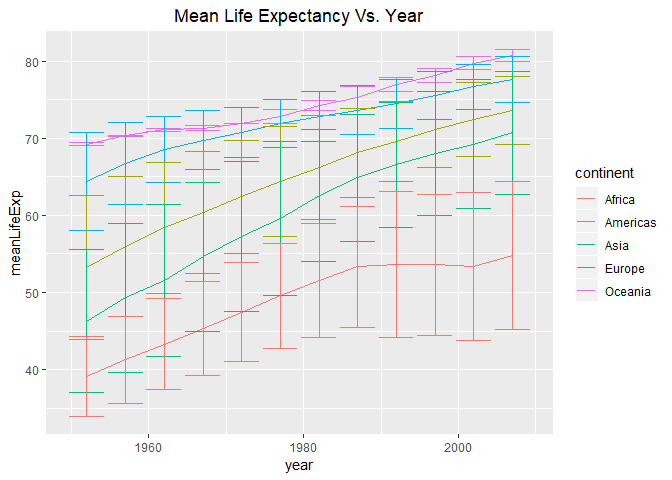
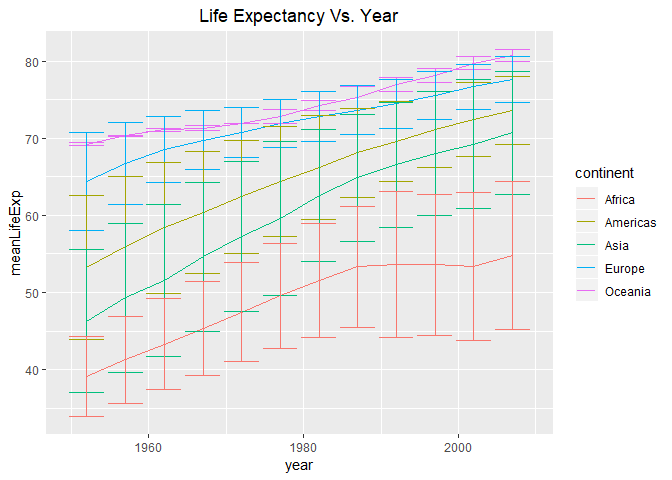
Almost finished Task 2

Changed region(s): [[0.25, 0.0, 0.625, 0.0625]]

diff --git a/hw03-aidanh14.md b/hw03-aidanh14.md
@@ -21,7 +21,7 @@ suppressPackageStartupMessages(library("tidyverse"))
 Task 1: "How is life expectancy changing over time on different continents?"
 ----------------------------------------------------------------------------
 
-To see how life expectancy over time, let's find the mean life expectancy of each continent for each year we have data for.
+To see how life expectancy over time, let's find the mean life expectancy of each continent for each year we have data for. We'll print a sample of the data in a table since printing all the data would be a little overwhelming.
 
 ``` r
 lifeExpOverTime <- gapminder %>%
@@ -30,30 +30,26 @@ lifeExpOverTime <- gapminder %>%
   mutate(meanLifeExp = mean(lifeExp), sdLifeExp = sd(lifeExp)) %>%
   select(year, continent, meanLifeExp, sdLifeExp)
 
-lifeExpOverTime
+lifeExpOverTime %>%
+  ungroup() %>%
+  distinct(continent, .keep_all = TRUE) %>%
+  knitr::kable()
 ```
 
-    ## # A tibble: 1,704 x 4
-    ## # Groups:   continent, year [60]
-    ##     year continent meanLifeExp sdLifeExp
-    ##    <int> <fct>           <dbl>     <dbl>
-    ##  1  1952 Asia             46.3      9.29
-    ##  2  1957 Asia             49.3      9.64
-    ##  3  1962 Asia             51.6      9.82
-    ##  4  1967 Asia             54.7      9.65
-    ##  5  1972 Asia             57.3      9.72
-    ##  6  1977 Asia             59.6     10.0 
-    ##  7  1982 Asia             62.6      8.54
-    ##  8  1987 Asia             64.9      8.20
-    ##  9  1992 Asia             66.5      8.08
-    ## 10  1997 Asia             68.0      8.09
-    ## # ... with 1,694 more rows
+|  year| continent |  meanLifeExp|  sdLifeExp|
+|-----:|:----------|------------:|----------:|
+|  1952| Asia      |     46.31439|  9.2917507|
+|  1952| Europe    |     64.40850|  6.3610883|
+|  1952| Africa    |     39.13550|  5.1515814|
+|  1952| Americas  |     53.27984|  9.3260819|
+|  1952| Oceania   |     69.25500|  0.1909188|
 
 A simple line plot of mean life expectancy vs. year will give us an idea of what's happening over time.
 
 ``` r
-lifeExpPlot <- ggplot(lifeExpOverTime, aes(y = meanLifeExp, x = year, color=continent, group=continent)) +
-  ggtitle("Mean Life Expectancy Vs. Year") +
+lifeExpPlot <- ggplot(lifeExpOverTime,
+                      aes(y = meanLifeExp, x = year, color = continent, group = continent)) +
+  ggtitle("Life Expectancy Vs. Year") +
   theme(plot.title = element_text(hjust = 0.5)) #Center the title, left-aligned by default
 
 lifeExpPlot +
@@ -84,7 +80,61 @@ lifeExpPlot +
 
 ![](hw03-aidanh14_files/figure-markdown_github/ribbon%20plot-1.png)
 
-Now *that's* a clean plot that gives us all the information we need.
-
 Task 2: "Get the maximum and minimum of GDP per capita for all continents."
 ---------------------------------------------------------------------------
+
+Start by searching through all the data to find the minimum and maximum GDP per capita of each continent.
+
+``` r
+gdpPerCapMaxMin <- gapminder %>%
+  select(continent, gdpPercap) %>%
+  group_by(continent) %>%
+  mutate(mingdpPerCap = min(gdpPercap), maxgdpPerCap = max(gdpPercap)) %>%
+  distinct(continent, mingdpPerCap, maxgdpPerCap)
+
+knitr::kable(gdpPerCapMaxMin)
+```
+
+| continent |  mingdpPerCap|  maxgdpPerCap|
+|:----------|-------------:|-------------:|
+| Asia      |      331.0000|     113523.13|
+| Europe    |      973.5332|      49357.19|
+| Africa    |      241.1659|      21951.21|
+| Americas  |     1201.6372|      42951.65|
+| Oceania   |    10039.5956|      34435.37|
+
+We can go further and find which country in each continent had the minimum and maximum GDP per capita, along with which year.
+
+``` r
+countries <- gapminder %>%
+  select(country, year, continent, gdpPercap) %>%
+  filter(gdpPercap %in% gdpPerCapMaxMin$mingdpPerCap |
+         gdpPercap %in% gdpPerCapMaxMin$maxgdpPerCap) %>%
+  mutate(MinOrMax = ifelse(gdpPercap %in% gdpPerCapMaxMin$mingdpPerCap, "min", "max")) %>%
+  arrange(continent, desc(MinOrMax))
+
+knitr::kable(countries)
+```
+
+| country                |  year| continent |    gdpPercap| MinOrMax |
+|:-----------------------|-----:|:----------|------------:|:---------|
+| Congo, Dem. Rep.       |  2002| Africa    |     241.1659| min      |
+| Libya                  |  1977| Africa    |   21951.2118| max      |
+| Haiti                  |  2007| Americas  |    1201.6372| min      |
+| United States          |  2007| Americas  |   42951.6531| max      |
+| Myanmar                |  1952| Asia      |     331.0000| min      |
+| Kuwait                 |  1957| Asia      |  113523.1329| max      |
+| Bosnia and Herzegovina |  1952| Europe    |     973.5332| min      |
+| Norway                 |  2007| Europe    |   49357.1902| max      |
+| Australia              |  1952| Oceania   |   10039.5956| min      |
+| Australia              |  2007| Oceania   |   34435.3674| max      |
+
+We can plot the max and min GDP per capita of each continent conveniently in a bar graph.
+
+``` r
+ggplot(countries, aes(x = continent, y = gdpPercap, fill = MinOrMax)) +
+  geom_col(position="dodge") +
+  labs(y = "GDP Per Capita", x = "Continent", fill = "Min. GDP or Max. GDP")
+```
+
+![](hw03-aidanh14_files/figure-markdown_github/bar%20plot-1.png)
